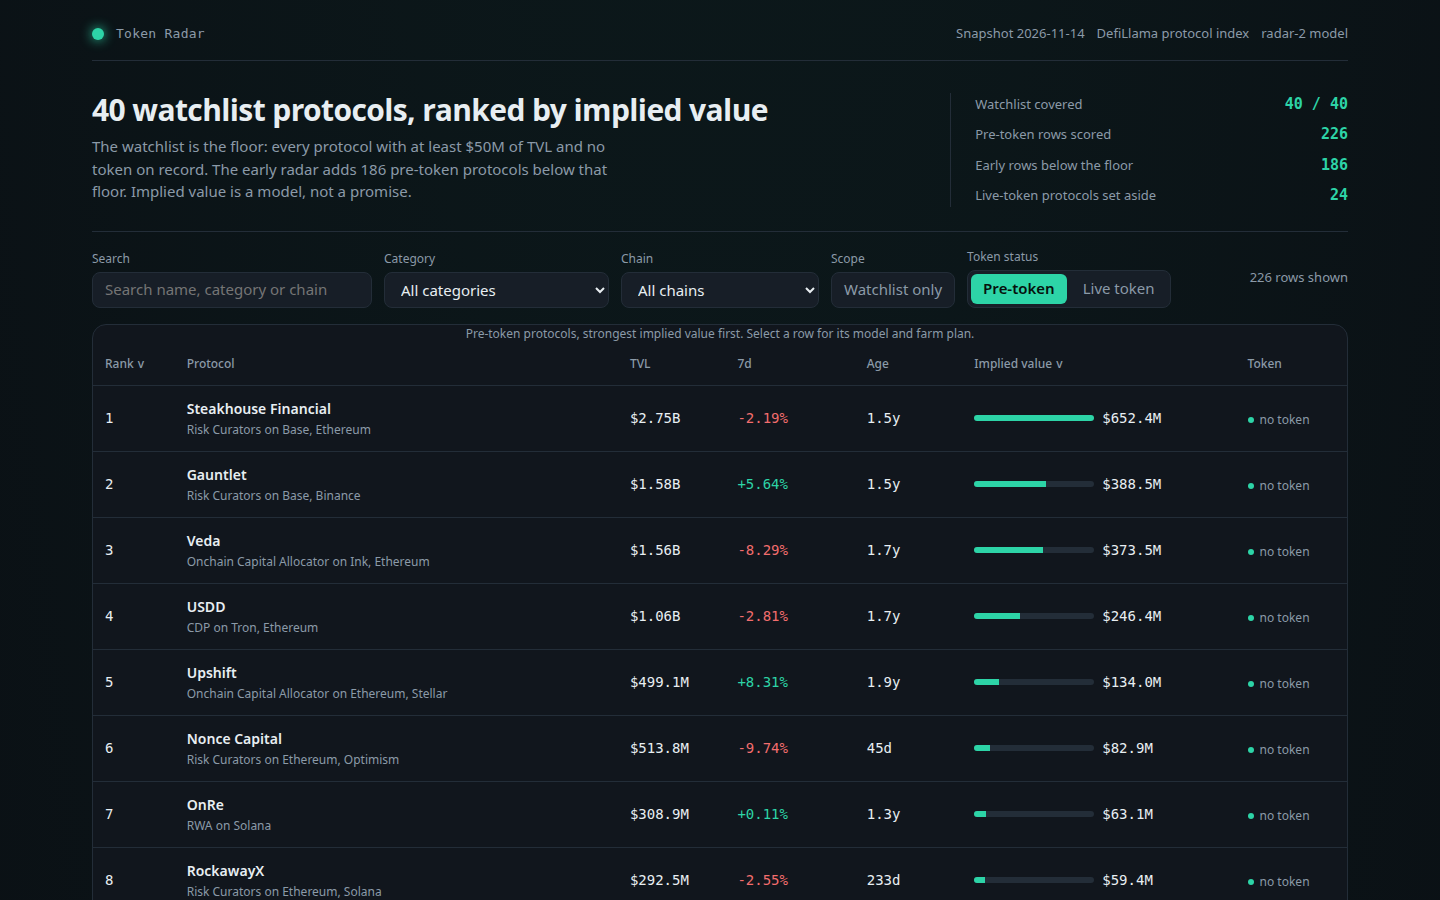
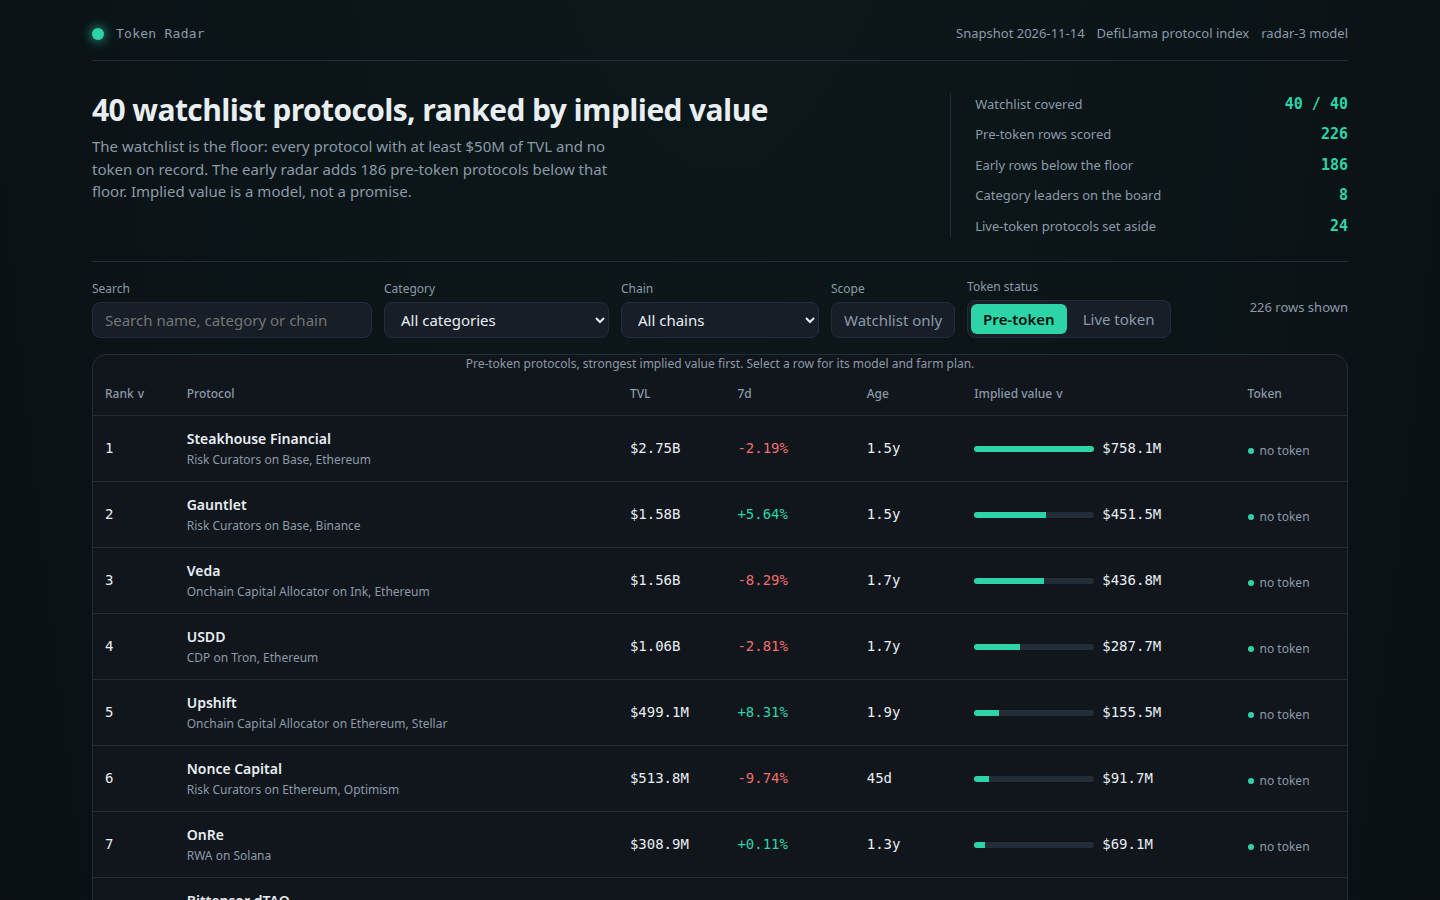
token-radar-01: radar-3 model, category leadership, 8-step farm plans

diff --git a/lib/model.ts b/lib/model.ts
@@ -6,20 +6,23 @@
 // snapshot's live-token protocols are kept apart and shown as the market's own values, never mixed into
 // the ranked board.
 //
-// Implied value follows only from the snapshot's own figures (radar-2):
+// Implied value follows only from the snapshot's own figures (radar-3):
 //
 //   base       = tvl_usd x BASE_MULTIPLE
 //   growth     = clamp(change_7d, -60, 120) per cent
 //   growthMult = 1 + (growth / 100) x GROWTH_WEIGHT
-//   maturity   = 0.6 + min(age_days, 1095) / 1095 x 0.4   (age_days unknown: 365)
-//   diversity  = 1 + 0.05 x min(chains, 4)               (1 chain: 1.00, 5+ chains: 1.20)
-//   implied    = max(1, round(base x growthMult x maturity x diversity))
+//   maturity   = 0.55 + min(age_days, 1095) / 1095 x 0.45   (age_days unknown: 365)
+//   diversity  = 1 + 0.05 x min(chains, 4)                 (1 chain: 1.00, 5+ chains: 1.20)
+//   leadership = 1 + 0.05 x clamp(log2(tvl_usd / category_median_tvl), -4, 4)
+//   implied    = max(1, round(base x growthMult x maturity x diversity x leadership))
 //
 // TVL is the size of the prize, growth is its direction, maturity is how long the protocol has run
-// with no token (the longer it has waited, the likelier a launch is priced on its record), and
-// diversity is how widely it is distributed: a protocol live on several chains reaches more wallets
-// and more liquidity venues when a token does launch. No protocol name is ever special-cased: the
-// same function scores every row.
+// with no token (the longer it has waited, the likelier a launch is priced on its record), diversity
+// is how widely it is distributed, and leadership is where it stands in its own category: a protocol
+// that leads its category by TVL is the one whose token would set that category's price, while one
+// far below its category's median is a follower. The category median is the median TVL of every
+// protocol the snapshot lists in that category, computed from the snapshot itself. No protocol name
+// is ever special-cased: the same function scores every row.
 
 /** The snapshot's protocol entry: exactly the ten fields the sealed input carries. */
 export interface SnapshotProtocol {
@@ -56,6 +59,8 @@ export interface ModelConstants {
   unknown_age_days: number;
   diversity_step: number;
   diversity_cap_chains: number;
+  leadership_step: number;
+  leadership_cap_log: number;
 }
 
 export const MODEL: ModelConstants = {
@@ -63,16 +68,18 @@ export const MODEL: ModelConstants = {
   growth_weight: 0.5,
   growth_floor: -60,
   growth_cap: 120,
-  maturity_floor: 0.6,
-  maturity_range: 0.4,
+  maturity_floor: 0.55,
+  maturity_range: 0.45,
   maturity_days: 1095,
   unknown_age_days: 365,
   diversity_step: 0.05,
   diversity_cap_chains: 4,
+  leadership_step: 0.05,
+  leadership_cap_log: 4,
 };
 
 /** The model's version label: the dashboard names it and the rules quote it. */
-export const MODEL_VERSION = 'radar-2';
+export const MODEL_VERSION = 'radar-3';
 
 /** How many pre-token protocols below the watchlist floor the early radar carries, by TVL. */
 export const EARLY_ROWS = 220;
@@ -109,6 +116,10 @@ export interface BoardRow {
     growth_multiplier: number;
     maturity_multiplier: number;
     diversity_multiplier: number;
+    leadership_multiplier: number;
+    category_median_tvl: number;
+    category_rank: number;
+    category_size: number;
     chain_count: number;
     age_days: number | null;
   };
@@ -131,6 +142,10 @@ export interface RadarRow {
   growth_multiplier: number;
   maturity_multiplier: number;
   diversity_multiplier: number;
+  leadership_multiplier: number;
+  category_median_tvl: number;
+  category_rank: number;
+  category_size: number;
 }
 
 /** A live-token protocol: it already trades, so the board shows the market's own value, not a model's. */
@@ -156,6 +171,7 @@ export interface RadarData {
   board_size: number;
   early_size: number;
   live_size: number;
+  category_leaders: number;
   rows: RadarRow[];
   live: LiveRow[];
 }
@@ -184,8 +200,57 @@ export function ageDays(asOf: string, listedAt: string | null): number | null {
   return Math.max(0, Math.floor((a - b) / DAY_MS));
 }
 
-/** The four multipliers and the implied value one protocol gets under `model`. */
-export function impliedValue(protocol: SnapshotProtocol, asOf: string, model: ModelConstants): { implied: number; growthPct: number; growthMult: number; maturityMult: number; diversityMult: number; age: number | null } {
+/** The median of a list of whole dollars. */
+function median(values: number[]): number {
+  const sorted = [...values].sort((a, b) => a - b);
+  const mid = sorted.length >> 1;
+  return sorted.length % 2 === 1 ? sorted[mid]! : (sorted[mid - 1]! + sorted[mid]!) / 2;
+}
+
+/** One category's own figures, from every protocol the snapshot lists in it: its median TVL, and each
+ *  protocol's rank by TVL within it (1 is the category's biggest) and the category's size. */
+export interface CategoryStats {
+  median_tvl: number;
+  rank_by_tvl: Map<string, number>;
+  size: number;
+}
+
+export function categoryStats(protocols: SnapshotProtocol[]): Map<string, CategoryStats> {
+  const groups = new Map<string, SnapshotProtocol[]>();
+  for (const p of protocols) {
+    const key = p.category ?? '';
+    const list = groups.get(key);
+    if (list === undefined) groups.set(key, [p]);
+    else list.push(p);
+  }
+  const out = new Map<string, CategoryStats>();
+  for (const [key, list] of groups) {
+    const ordered = [...list].sort((a, b) => b.tvl_usd - a.tvl_usd || (a.slug < b.slug ? -1 : a.slug > b.slug ? 1 : 0));
+    const rankByTvl = new Map<string, number>();
+    ordered.forEach((p, i) => rankByTvl.set(p.slug, i + 1));
+    out.set(key, { median_tvl: median(list.map((p) => p.tvl_usd)), rank_by_tvl: rankByTvl, size: list.length });
+  }
+  return out;
+}
+
+/** The five multipliers and the implied value one protocol gets under `model`. */
+export function impliedValue(
+  protocol: SnapshotProtocol,
+  asOf: string,
+  model: ModelConstants,
+  stats: CategoryStats,
+): {
+  implied: number;
+  growthPct: number;
+  growthMult: number;
+  maturityMult: number;
+  diversityMult: number;
+  leadershipMult: number;
+  age: number | null;
+  categoryMedian: number;
+  categoryRank: number;
+  categorySize: number;
+} {
   const age = ageDays(asOf, protocol.listed_at);
   const rawGrowth = finite(protocol.change_7d, 0);
   const growthPct = Math.min(model.growth_cap, Math.max(model.growth_floor, rawGrowth));
@@ -194,9 +259,15 @@ export function impliedValue(protocol: SnapshotProtocol, asOf: string, model: Mo
   const maturityMult = model.maturity_floor + (Math.min(Math.max(ageForModel, 0), model.maturity_days) / model.maturity_days) * model.maturity_range;
   const chainCount = Array.isArray(protocol.chains) ? protocol.chains.length : 0;
   const diversityMult = 1 + model.diversity_step * Math.min(chainCount, model.diversity_cap_chains);
+  const categoryMedian = stats.median_tvl;
+  const categoryRank = stats.rank_by_tvl.get(protocol.slug) ?? stats.size;
+  const categorySize = stats.size;
+  const ratio = categoryMedian > 0 ? protocol.tvl_usd / categoryMedian : 1;
+  const logRatio = Math.max(-model.leadership_cap_log, Math.min(model.leadership_cap_log, Math.log2(ratio)));
+  const leadershipMult = 1 + model.leadership_step * logRatio;
   const base = protocol.tvl_usd * model.base_multiple;
-  const implied = Math.max(1, Math.round(base * growthMult * maturityMult * diversityMult));
-  return { implied, growthPct, growthMult, maturityMult, diversityMult, age };
+  const implied = Math.max(1, Math.round(base * growthMult * maturityMult * diversityMult * leadershipMult));
+  return { implied, growthPct, growthMult, maturityMult, diversityMult, leadershipMult, age, categoryMedian, categoryRank, categorySize };
 }
 
 /** DefiLlama's version-marker rule: a name ending in a release is a pool of another protocol. */
@@ -228,6 +299,7 @@ export interface BoardSummary {
 /** The protocols the board ranks, strongest first, with ranks 1..n. */
 export function buildBoard(snapshot: Snapshot, model: ModelConstants = MODEL): BoardRow[] {
   const index = bySlug(snapshot.protocols);
+  const stats = categoryStats(snapshot.protocols);
   const chosen = new Map<string, SnapshotProtocol>();
   // The watchlist is the floor: every slug, even one the snapshot no longer carries (it cannot, but the
   // board's coverage is the gate's row and is never gambled on a missing record).
@@ -244,8 +316,9 @@ export function buildBoard(snapshot: Snapshot, model: ModelConstants = MODEL): B
   for (const p of early) chosen.set(p.slug, p);
 
   const scored = [...chosen.values()].map((p) => {
-    const { implied, growthPct, growthMult, maturityMult, diversityMult, age } = impliedValue(p, snapshot.as_of, model);
-    return { p, implied, growthPct, growthMult, maturityMult, diversityMult, age };
+    const catStats = stats.get(p.category ?? '')!;
+    const s = impliedValue(p, snapshot.as_of, model, catStats);
+    return { p, ...s };
   });
   scored.sort((a, b) => b.implied - a.implied || (a.p.slug < b.p.slug ? -1 : a.p.slug > b.p.slug ? 1 : 0));
   return scored.map((s, i) => ({
@@ -269,6 +342,10 @@ export function buildBoard(snapshot: Snapshot, model: ModelConstants = MODEL): B
       growth_multiplier: round4(s.growthMult),
       maturity_multiplier: round4(s.maturityMult),
       diversity_multiplier: round4(s.diversityMult),
+      leadership_multiplier: round4(s.leadershipMult),
+      category_median_tvl: s.categoryMedian,
+      category_rank: s.categoryRank,
+      category_size: s.categorySize,
       chain_count: Array.isArray(s.p.chains) ? s.p.chains.length : 0,
       age_days: s.age,
     },
@@ -366,8 +443,11 @@ function weeklyActionFor(p: SnapshotProtocol, chain: string): string {
 }
 
 /**
- * A protocol's farm plan: seven steps, each an action with a cost and a time. The plan is derived from
- * the protocol's own record (category, chains, TVL, age), never from a hand-written list of names.
+ * A protocol's farm plan: eight steps, each an action with a cost and a time. The plan is derived from
+ * the protocol's own record (category, chains, TVL, age, seven-day growth), never from a hand-written
+ * list of names. The last step is what to watch for next: a falling TVL is the first sign a farm is
+ * cooling, a young protocol's first points announcement is its farm window opening, and an old
+ * protocol's governance forum is where a token proposal first appears.
  */
 export function farmSteps(p: SnapshotProtocol, age: number | null): FarmStep[] {
   const chain = chainOf(p);
@@ -376,6 +456,15 @@ export function farmSteps(p: SnapshotProtocol, age: number | null): FarmStep[] {
   const gas = gasFor(chain);
   const action = actionFor(p, capital, chain);
   const weekly = weeklyActionFor(p, chain);
+  const growth = finite(p.change_7d, 0);
+  const watch =
+    p.change_7d !== null && growth < -10
+      ? `TVL fell ${Math.abs(growth).toFixed(1)}% in the last seven days, so watch for it to steady before adding more capital; a falling TVL is the first sign a farm is cooling.`
+      : age !== null && age < 180
+        ? `This protocol is under six months old, so watch for its first points or rewards announcement; a new protocol usually opens its farm window within its first year.`
+        : age !== null && age >= 730
+          ? `This protocol has run ${(age / 365).toFixed(1)} years with no token, so watch its governance forum for a token proposal; that is the usual first public step toward a launch.`
+          : `Watch the protocol's own announcements page for a points program; that is the usual pre-launch signal, and never trust a points page linked from social media.`;
   return [
     {
       text: `Use a fresh wallet that holds only the funds you plan to farm, and keep its seed phrase offline.`,
@@ -411,6 +500,11 @@ export function farmSteps(p: SnapshotProtocol, age: number | null): FarmStep[] {
       text: `Write the wallet, the dates and every transaction in a farm log so you can repeat the position or unwind it.`,
       cost: 'nothing but the log',
       time: '5 minutes',
+    },
+    {
+      text: watch,
+      cost: 'nothing but the watch',
+      time: '10 minutes a week',
     },
   ];
 }
@@ -449,6 +543,10 @@ export function radarRow(row: BoardRow): RadarRow {
     growth_multiplier: row.model.growth_multiplier,
     maturity_multiplier: row.model.maturity_multiplier,
     diversity_multiplier: row.model.diversity_multiplier,
+    leadership_multiplier: row.model.leadership_multiplier,
+    category_median_tvl: row.model.category_median_tvl,
+    category_rank: row.model.category_rank,
+    category_size: row.model.category_size,
   };
 }
 
@@ -457,6 +555,7 @@ export function buildRadar(snapshot: Snapshot, model: ModelConstants = MODEL): {
   const board = buildBoard(snapshot, model);
   const live = liveRows(snapshot);
   const early = board.filter((r) => !snapshot.watchlist.includes(r.slug)).length;
+  const leaders = board.filter((r) => r.model.category_rank === 1).length;
   const radar: RadarData = {
     as_of: snapshot.as_of,
     source: snapshot.source,
@@ -468,6 +567,7 @@ export function buildRadar(snapshot: Snapshot, model: ModelConstants = MODEL): {
     board_size: board.length,
     early_size: early,
     live_size: live.length,
+    category_leaders: leaders,
     rows: board.map(radarRow),
     live,
   };

diff --git a/dashboard/app.js b/dashboard/app.js
@@ -35,7 +35,10 @@
     var maturity = model.maturity_floor + (Math.min(Math.max(age, 0), model.maturity_days) / model.maturity_days) * model.maturity_range;
     var chains = row.chains && row.chains.length ? row.chains.length : 0;
     var diversity = 1 + model.diversity_step * Math.min(chains, model.diversity_cap_chains);
-    return Math.max(1, Math.round(row.tvl_usd * model.base_multiple * growthMult * maturity * diversity));
+    var median = row.category_median_tvl && row.category_median_tvl > 0 ? row.category_median_tvl : row.tvl_usd;
+    var logRatio = Math.max(-model.leadership_cap_log, Math.min(model.leadership_cap_log, Math.log2(row.tvl_usd / median)));
+    var leadership = 1 + model.leadership_step * logRatio;
+    return Math.max(1, Math.round(row.tvl_usd * model.base_multiple * growthMult * maturity * diversity * leadership));
   }
 
   function el(tag, attrs) {
@@ -135,6 +138,15 @@
     var capital = capitalFor(p);
     var hold = holdDaysFor(p.age_days);
     var gas = gasFor(chain);
+    var growth = p.change_7d === null || p.change_7d === undefined ? 0 : p.change_7d;
+    var watch =
+      p.change_7d !== null && p.change_7d !== undefined && growth < -10
+        ? 'TVL fell ' + Math.abs(growth).toFixed(1) + '% in the last seven days, so watch for it to steady before adding more capital; a falling TVL is the first sign a farm is cooling.'
+        : p.age_days !== null && p.age_days !== undefined && p.age_days < 180
+          ? 'This protocol is under six months old, so watch for its first points or rewards announcement; a new protocol usually opens its farm window within its first year.'
+          : p.age_days !== null && p.age_days !== undefined && p.age_days >= 730
+            ? 'This protocol has run ' + (p.age_days / 365).toFixed(1) + ' years with no token, so watch its governance forum for a token proposal; that is the usual first public step toward a launch.'
+            : "Watch the protocol's own announcements page for a points program; that is the usual pre-launch signal, and never trust a points page linked from social media.";
     return [
       { text: 'Use a fresh wallet that holds only the funds you plan to farm, and keep its seed phrase offline.', cost: chain === 'Ethereum' ? 'about $10 of gas for the first transaction' : 'under $2 of gas for the first transaction', time: '5 minutes' },
       { text: actionFor(p, capital, chain), cost: '$' + capital + ' of capital and about $' + gas + ' of gas', time: '15 minutes to set up' },
@@ -142,7 +154,8 @@
       { text: 'Hold the position for at least ' + hold + ' days so the activity is counted in more than one snapshot.', cost: 'the $' + capital + ' stays in the position', time: hold + ' days' },
       { text: "Before you withdraw, open the protocol's own points or rewards page and claim only from the link it publishes.", cost: 'no fee to check, and never pay to claim', time: '10 minutes' },
       { text: 'Once a month, re-check ' + p.name + "'s TVL and its points page; if TVL has fallen by half, consider unwinding the position.", cost: 'nothing but the check', time: '10 minutes a month' },
-      { text: 'Write the wallet, the dates and every transaction in a farm log so you can repeat the position or unwind it.', cost: 'nothing but the log', time: '5 minutes' }
+      { text: 'Write the wallet, the dates and every transaction in a farm log so you can repeat the position or unwind it.', cost: 'nothing but the log', time: '5 minutes' },
+      { text: watch, cost: 'nothing but the watch', time: '10 minutes a week' }
     ].map(stepText);
   }
 
@@ -215,6 +228,7 @@
         el('div', { class: 'fact' }, el('span', { text: 'Watchlist covered' }), el('b', { text: DATA.watchlist_size + ' / ' + DATA.watchlist_size })),
         el('div', { class: 'fact' }, el('span', { text: 'Pre-token rows scored' }), el('b', { text: String(DATA.board_size) })),
         el('div', { class: 'fact' }, el('span', { text: 'Early rows below the floor' }), el('b', { text: String(DATA.early_size) })),
+        el('div', { class: 'fact' }, el('span', { text: 'Category leaders on the board' }), el('b', { text: String(DATA.category_leaders) })),
         el('div', { class: 'fact' }, el('span', { text: 'Live-token protocols set aside' }), el('b', { text: String(DATA.live_size) }))
       )
     );
@@ -281,7 +295,10 @@
       },
         el('td', { class: 'num', text: String(r.rank) }),
         el('td', null, el('div', { class: 'name' },
-          el('b', { text: r.name }),
+          el('div', { class: 'name-row' },
+            el('b', { text: r.name }),
+            r.category_rank === 1 ? el('span', { class: 'leader', title: 'Biggest protocol in its category by TVL', text: 'Category leader' }) : null
+          ),
           el('span', { class: 'sub', text: (r.category || 'Other') + ' on ' + (r.chains && r.chains.length ? r.chains.slice(0, 2).join(', ') : 'an unnamed chain') })
         )),
         el('td', { class: 'num', text: fmtUsd(r.tvl_usd) }),
@@ -343,9 +360,9 @@
       el('h2', { text: 'How implied value is computed' }),
       el('p', { class: 'sub', text: 'Every row is scored by one function of the snapshot figures. No protocol name is special-cased, and no row is hand-picked.' }),
       el('div', { class: 'formula' },
-        'implied = round( tvl_usd x ' + m.base_multiple + ' x (1 + clamp(change_7d, ' + m.growth_floor + ', ' + m.growth_cap + ') / 100 x ' + m.growth_weight + ') x (' + m.maturity_floor + ' + min(age_days, ' + m.maturity_days + ') / ' + m.maturity_days + ' x ' + m.maturity_range + ') x (1 + ' + m.diversity_step + ' x min(chains, ' + m.diversity_cap_chains + ')) )'
+        'implied = round( tvl_usd x ' + m.base_multiple + ' x (1 + clamp(change_7d, ' + m.growth_floor + ', ' + m.growth_cap + ') / 100 x ' + m.growth_weight + ') x (' + m.maturity_floor + ' + min(age_days, ' + m.maturity_days + ') / ' + m.maturity_days + ' x ' + m.maturity_range + ') x (1 + ' + m.diversity_step + ' x min(chains, ' + m.diversity_cap_chains + ')) x (1 + ' + m.leadership_step + ' x clamp(log2(tvl_usd / category_median_tvl), -' + m.leadership_cap_log + ', ' + m.leadership_cap_log + ')) )'
       ),
-      el('p', { class: 'sub', text: 'TVL and seven-day growth come from the snapshot. Age is the time since the protocol was first listed, the best record of how long it has run with no token; an unlisted age uses ' + m.unknown_age_days + ' days. Diversity counts the chains a protocol runs on: a launch reaches more wallets when it is already distributed. The early radar is every pre-token protocol below the watchlist floor, by TVL, and the live-token protocols are set aside with their market caps shown.' })
+      el('p', { class: 'sub', text: 'TVL and seven-day growth come from the snapshot. Age is the time since the protocol was first listed, the best record of how long it has run with no token; an unlisted age uses ' + m.unknown_age_days + ' days. Diversity counts the chains a protocol runs on: a launch reaches more wallets when it is already distributed. Leadership compares a protocol with its own category: the category median is the median TVL of every protocol the snapshot lists in that category, so a protocol far above its category median is the one whose token would set that category\u2019s price, and one far below it is a follower. The early radar is every pre-token protocol below the watchlist floor, by TVL, and the live-token protocols are set aside with their market caps shown.' })
     );
   }
 
@@ -374,9 +391,13 @@
         el('div', null, el('span', { text: 'Seven-day growth' }), el('b', { class: 'num', text: fmtPct(row.change_7d) })),
         el('div', null, el('span', { text: 'Age with no token' }), el('b', { class: 'num', text: fmtAge(row.age_days) })),
         el('div', null, el('span', { text: 'Chains' }), el('b', { class: 'num', text: String((row.chains || []).length) })),
+        el('div', null, el('span', { text: 'Category median TVL' }), el('b', { class: 'num', text: fmtUsd(row.category_median_tvl) })),
+        el('div', null, el('span', { text: 'TVL vs category median' }), el('b', { class: 'num', text: (row.category_median_tvl && row.category_median_tvl > 0 ? (row.tvl_usd / row.category_median_tvl).toFixed(1) + 'x' : 'n/a') })),
+        el('div', null, el('span', { text: 'Category rank' }), el('b', { class: 'num', text: '#' + row.category_rank + ' of ' + row.category_size })),
         el('div', null, el('span', { text: 'Growth multiplier' }), el('b', { class: 'num', text: String(row.growth_multiplier) })),
         el('div', null, el('span', { text: 'Maturity multiplier' }), el('b', { class: 'num', text: String(row.maturity_multiplier) })),
         el('div', null, el('span', { text: 'Diversity multiplier' }), el('b', { class: 'num', text: String(row.diversity_multiplier) })),
+        el('div', null, el('span', { text: 'Leadership multiplier' }), el('b', { class: 'num', text: String(row.leadership_multiplier) })),
         el('div', null, el('span', { text: 'Implied value' }), el('b', { class: 'num', text: fmtUsd(row.implied_value_usd) }))
       ),
       el('p', { class: 'sub', text: 'Model ' + DATA.model_version + ': the same function scores every protocol. The page recomputes this row as ' + fmtUsd(impliedOf(row, DATA.model)) + (impliedOf(row, DATA.model) === row.implied_value_usd ? ', the same number board.json carries.' : ', which differs from the board: the data would be stale.') + ' This is an estimate, not a price.' })

diff --git a/main.ts b/main.ts
@@ -1,10 +1,11 @@
-// A token-radar-01 entry (Node 22, standard library only): the radar-2 model.
+// A token-radar-01 entry (Node 22, standard library only): the radar-3 model.
 //
 // The program reads the sealed snapshot from /input/snapshot.json (or --input <file|dir>), scores every
-// pre-token protocol with the radar-2 model in lib/model.ts (TVL base, growth and maturity multipliers,
-// plus a chain-diversity multiplier), writes the ranked board to /output/board.json, and copies this
-// repository's dashboard/ and screenshots/ to /output. Last, it writes /output/dossier.json, the summary
-// the judge reads, with the vendored make.fun library.
+// pre-token protocol with the radar-3 model in lib/model.ts (TVL base, growth, maturity and
+// chain-diversity multipliers, plus a category-leadership multiplier from the snapshot's own category
+// medians), writes the ranked board to /output/board.json, and copies this repository's dashboard/ and
+// screenshots/ to /output. Last, it writes /output/dossier.json, the summary the judge reads, with the
+// vendored make.fun library.
 //
 // The dashboard is a static page, no framework and no network: dashboard/index.html, dashboard/app.css
 // and dashboard/app.js read /output/data.js, which this program writes from the same board. It covers

diff --git a/dashboard/app.css b/dashboard/app.css
@@ -100,6 +100,11 @@ tbody tr[data-selected="true"] { background: rgba(45, 212, 167, 0.10); }
 .num { font-family: var(--font-num); font-variant-numeric: tabular-nums; white-space: nowrap; }
 .name { display: grid; gap: 2px; }
 .name b { font-weight: 600; }
+.name-row { display: flex; align-items: center; gap: var(--step-2); flex-wrap: wrap; }
+.leader {
+  font-size: 11px; font-weight: 600; letter-spacing: 0.02em; color: #1a1206;
+  background: var(--amber); border-radius: 999px; padding: 1px 8px; white-space: nowrap;
+}
 .sub { color: var(--muted); font-size: 12px; }
 .pos { color: var(--accent); }
 .neg { color: var(--negative); }

diff --git a/README.md b/README.md
@@ -4,7 +4,7 @@
 [![rank](https://make.fun/badge/token-radar-01/raikodegen16/token-radar-01/rank.svg)](https://make.fun/bounty/token-radar-01/leaderboard?utm_source=github&utm_medium=readme&utm_campaign=token-radar-01)
 [![reward](https://make.fun/badge/token-radar-01/raikodegen16/token-radar-01/reward.svg)](https://make.fun/bounty/token-radar-01?utm_source=github&utm_medium=readme&utm_campaign=token-radar-01)
 
-A token launch radar that ranks 226 pre-token DeFi protocols by implied token value, derived from TVL, 7-day growth, age and chain diversity, with a concrete farm plan for each protocol and an offline sortable dashboard.
+A token launch radar that ranks 226 pre-token DeFi protocols by implied token value, derived from TVL, 7-day growth, age, chain diversity and standing in their own category, with a concrete 8-step farm plan for each protocol and an offline sortable dashboard.
 
 ## Run it
 
